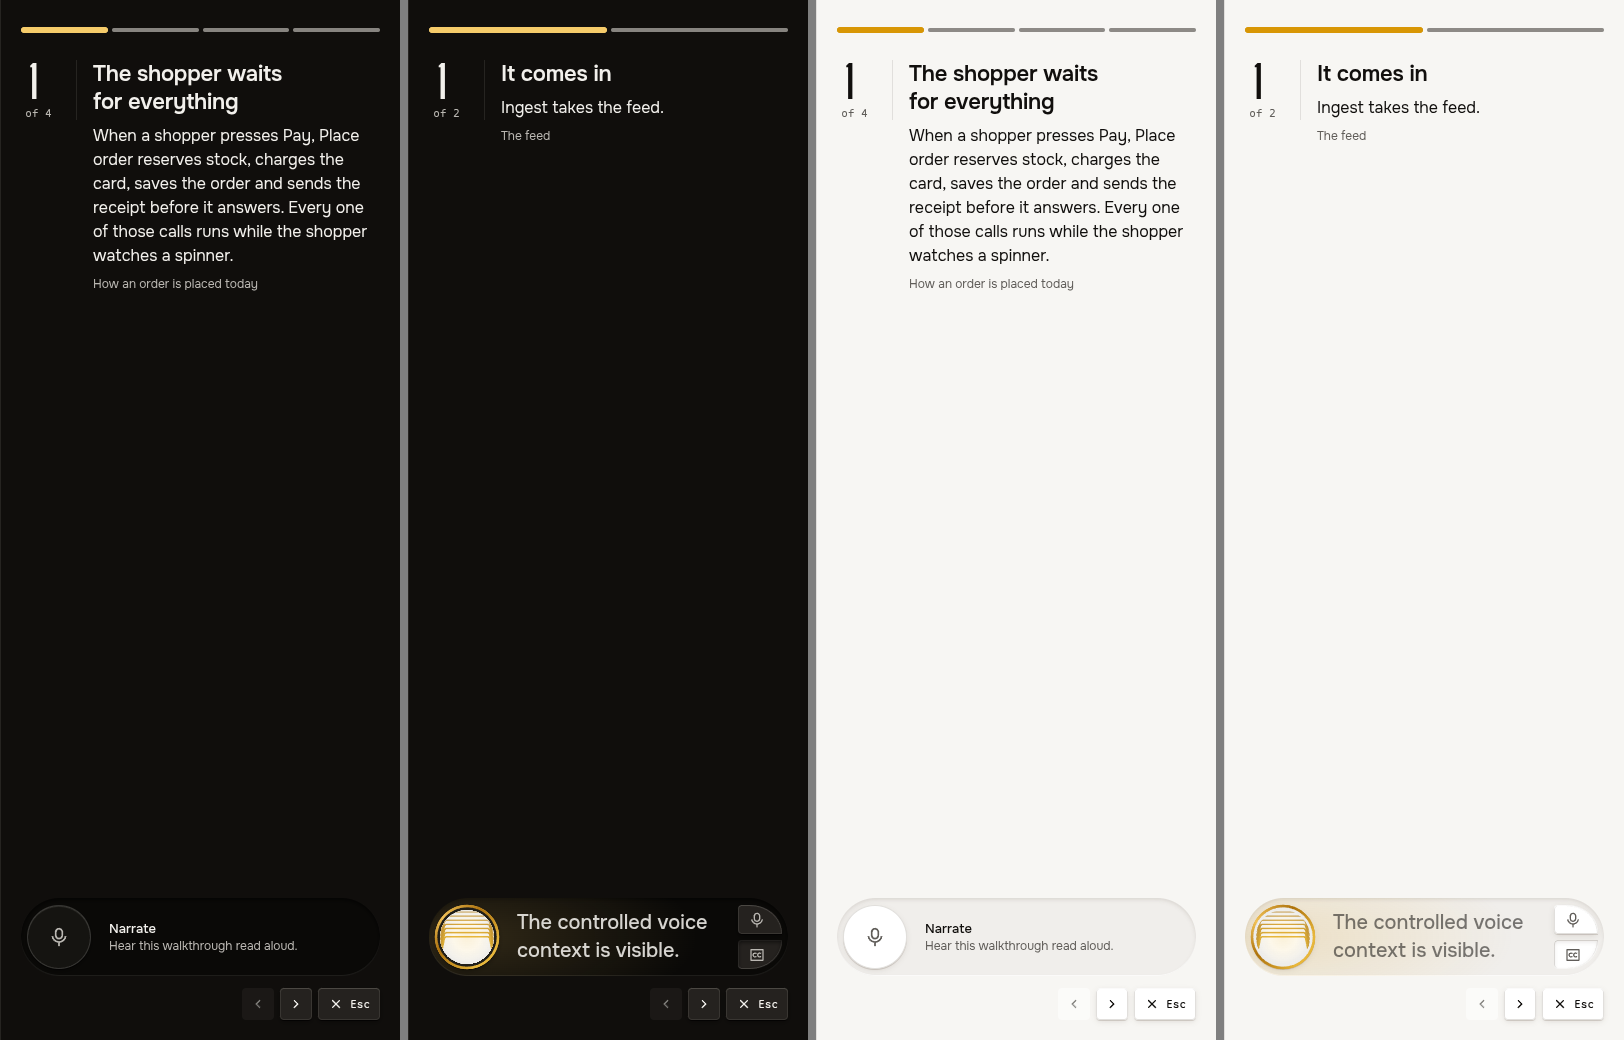
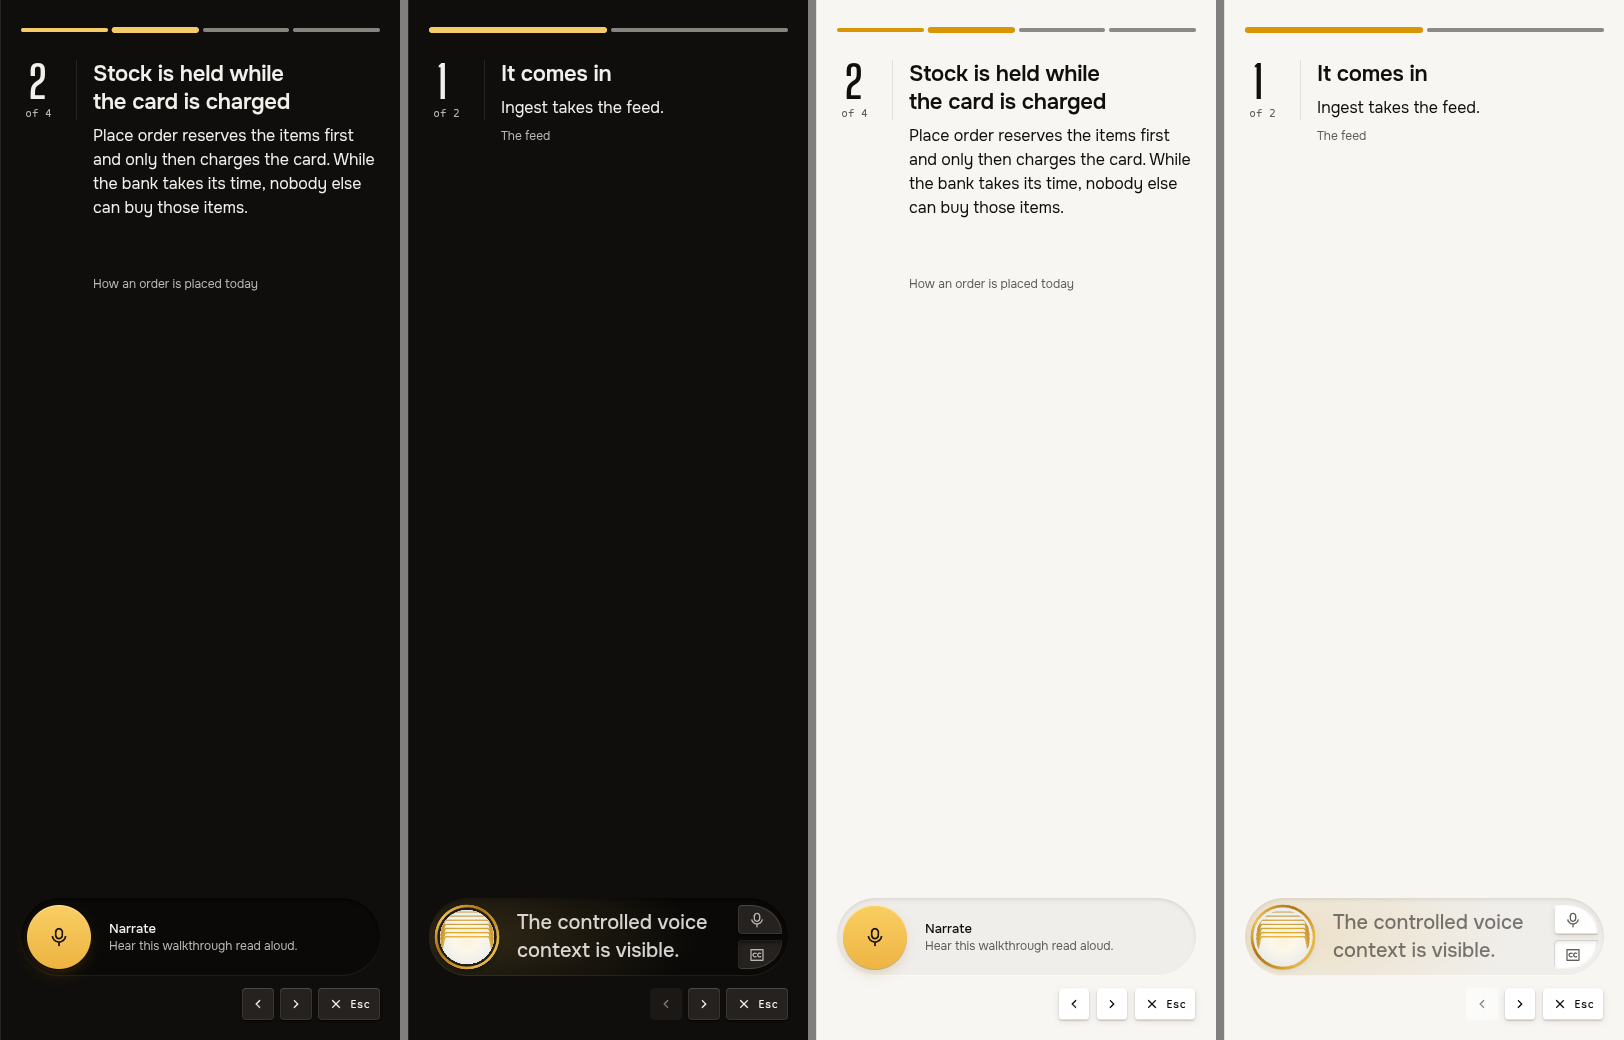
feat(walkthrough): the rail fills with gold up to the step, and Narrate is gold
As on the site's walkthrough player, the segments before the step shown
are gold, so the rail reads as progress. The segments after it keep the
muted tone, which holds the contrast of a mark on the column. The
circle of the Narrate key takes the gold finish of the primary action
and lifts and sinks with the key.

Refs: TASK-590.05

diff --git a/apps/web/src/ui/architecture-drawing/canvas/presentation/components/PresentationRail.tsx b/apps/web/src/ui/architecture-drawing/canvas/presentation/components/PresentationRail.tsx
@@ -1,15 +1,18 @@
-// The rail along the top of a presented walkthrough's box: one segment for each step, and a way to
-// its step in each. It says where the reader is in the walkthrough at a glance, and it is how a step
-// is chosen out of order.
+// The rail along the top of a presented walkthrough's column: one segment for each step, and a way
+// to its step in each. It says where the reader is in the walkthrough at a glance, and it is how a
+// step is chosen out of order.
 //
 // The step shown is marked by one piece of gold that is as wide as a segment and travels along the
 // rail to the new step, with a paler wake that arrives a little after it, so a long jump is
-// followed across the rail and a short one is a step. The segments themselves only name their
-// steps, in a tone that is 3:1 against the box, because they are controls. Only a transform moves;
-// the stylesheet (app.css, `semantic-presentation-rail`) does it.
+// followed across the rail and a short one is a step. The segments before it are gold too, so the
+// rail fills up to the step shown, as the site's walkthrough player does. The segments after it
+// are in a tone that keeps the contrast of a mark against the column, because they are controls.
+// Only a transform moves the gold piece; the stylesheet (app.css, `semantic-presentation-rail`)
+// does it.
 
 import { useCallback, useMemo, type CSSProperties, type JSX } from "react";
 
+import { cn } from "@archboard/ui-kit/components";
 import { KeyTip } from "#ui/architecture-drawing/canvas/presentation/components/PresentationKeys.tsx";
 import type { VariantContent } from "@archboard/model/content";
 
@@ -23,6 +26,8 @@ interface StepSegmentProps {
 	readonly heading: string;
 	/** Whether it is the step shown. */
 	readonly current: boolean;
+	/** Whether the step comes before the one shown, so its segment is filled. */
+	readonly done: boolean;
 	/**
 	 * Show a step.
 	 * @param index The step.
@@ -52,7 +57,14 @@ function StepSegment(props: StepSegmentProps): JSX.Element {
 				onClick={go}
 				className="hit-area group flex h-5 min-w-0 flex-1 items-center outline-none"
 			>
-				<span className="bg-muted-foreground/70 group-hover:bg-muted-foreground group-focus-visible:ring-ring block h-1 w-full rounded-full transition-colors duration-150 group-focus-visible:ring-2 group-focus-visible:ring-offset-2 group-focus-visible:ring-offset-(--card) motion-reduce:transition-none" />
+				<span
+					className={cn(
+						"group-focus-visible:ring-ring block h-1 w-full rounded-full transition-colors duration-150 group-focus-visible:ring-2 group-focus-visible:ring-offset-2 group-focus-visible:ring-offset-(--sidebar) motion-reduce:transition-none",
+						props.done
+							? "bg-primary-mark"
+							: "bg-muted-foreground/70 group-hover:bg-muted-foreground",
+					)}
+				/>
 			</button>
 		</KeyTip>
 	);
@@ -95,6 +107,7 @@ function PresentationRail(props: PresentationRailProps): JSX.Element {
 					index={at}
 					heading={beat.heading}
 					current={at === props.index}
+					done={at < props.index}
 					onGo={props.onGo}
 				/>
 			))}

diff --git a/apps/web/src/ui/architecture-drawing/canvas/presentation/components/PresentationFoot.tsx b/apps/web/src/ui/architecture-drawing/canvas/presentation/components/PresentationFoot.tsx
@@ -28,12 +28,17 @@ const FOOT_STYLE: CSSProperties = {
 /** What the key says while a narration can start. */
 const NARRATE_HINT = "Hear this walkthrough read aloud.";
 
-/** The circle where the orb will be lit: the plate the orb stands on, with the microphone on it. */
-const SEAT = cn(
-	"border-border bg-card text-muted-foreground shadow-raised m-1.5 grid size-16 shrink-0 place-items-center",
-	"dark:border-input dark:bg-input/30 rounded-full border transition-[border-color,color,box-shadow]",
-	"group-hover/narrate:border-primary-mark group-hover/narrate:text-primary-mark",
-	"group-active/narrate:shadow-pressed",
+/**
+ * The circle where the orb will be lit, with the microphone on it. It is the gold of the primary
+ * action, as the site's Narrate key is, and it lifts and sinks with the key that holds it.
+ */
+const SEAT =
+	"primary-finish pointer-events-none m-1.5 grid size-16 shrink-0 place-items-center rounded-full";
+
+/** How the circle answers the pointer on a key that can narrate. */
+const LIFT = cn(
+	"group-hover/narrate:shadow-primary-hover group-hover/narrate:-translate-y-px",
+	"group-active/narrate:shadow-primary-pressed group-active/narrate:translate-y-px",
 );
 
 /** Inputs for the key that has the walkthrough narrated. */
@@ -74,7 +79,7 @@ function NarrateKey(props: NarrateKeyProps): JSX.Element {
 				dimmed ? "cursor-default opacity-60" : "cursor-pointer",
 			)}
 		>
-			<span aria-hidden="true" className={cn(SEAT, dimmed && "group-hover/narrate:border-border")}>
+			<span aria-hidden="true" className={cn(SEAT, !dimmed && LIFT)}>
 				<RiMicLine className="size-5" />
 			</span>
 			<span className="flex min-w-0 flex-col">

diff --git a/DESIGN.md b/DESIGN.md
@@ -685,10 +685,12 @@ has 20px of padding and 20px between its parts. The picture is as wide as the co
 so the camera fits each step to all of the picture and keeps nothing clear.
 
 The rail runs along the top of the column, across its full width. It has one segment for each
-step. Each segment is a button, and a tooltip names its step. The segments are 4px high, in
-Muted Ink at 70%, which is APCA Lc 56 against the column on chalk and Lc 37 on graphite, over
-the floor of Lc 30 for a mark, because they are controls. One piece of Gold Mark marks the step
-shown. It is 6px high and as wide as a segment, with a paler wake of the same gold behind it.
+step. Each segment is a button, and a tooltip names its step. The segments are 4px high. The
+segments before the step shown are Gold Mark, so the rail fills up to the step shown, as on the
+site's player. The segments after it are Muted Ink at 70%, which is APCA Lc 56 against the
+column on chalk and Lc 37 on graphite, over the floor of Lc 30 for a mark, because they are
+controls. One piece of Gold Mark marks the step shown. It is 6px high and as wide as a segment,
+with a paler wake of the same gold behind it.
 
 Under the rail stands the step's number, set in the display face at 44px over a mono "of N",
 with a rule on its right, as on the sheet number of a drawing. Beside it are the heading of the
@@ -705,7 +707,8 @@ go is dimmed, as previous is on the first step. It stays a key, so that focus is
 nothing. A recording draws no keys, because nobody can press anything in the video.
 
 While voice is off, the pill holds the key that narrates the walkthrough. The key is a circle
-where the orb will be lit, with a microphone in it. Then come "Narrate" and a line of muted
+in the gold finish of the primary action, where the orb will be lit, with a microphone in it. It
+lifts 1px when hovered and sinks 1px when pressed, as the gold button does. Then come "Narrate" and a line of muted
 ink that says what it does. While a narration cannot start, the key is dimmed and never taken
 out, and the line says why. Pressing the key hands keyboard focus to the pill, because the key
 gives way.

diff --git a/docs/design/operator-canvas-shell.md b/docs/design/operator-canvas-shell.md
@@ -317,14 +317,14 @@ header is held and says so, and it does not show or hide the sidebar.
 
 A presented walkthrough (TASK-250, TASK-392, TASK-590.05) is the picture and a column beside it,
 with the sidebar stepped aside. The column stands where the right panel stands, 400px wide at
-most, as the site's walkthrough player sets it. A rail of steps runs along its top, with one piece
-of gold that travels to the step shown. Under the rail is the step's number, set as a drawing's
+most, as the site's walkthrough player sets it. A rail of steps runs along its top. It fills with
+gold up to the step shown, and one piece of gold travels to that step. Under the rail is the step's number, set as a drawing's
 sheet number is. Beside the number are the step's heading in the `presentation` type role, its
 words in the `reading` role, and the name of the walkthrough under those.
 
 The pill for the voice stands at the foot of the column, as wide as the column. The keys,
 previous, next and leave, stand under it on the right. While voice is off, the pill holds the key
-that narrates the walkthrough. While voice is live, it holds the voice box, with its orb, its
+that narrates the walkthrough, a gold circle with a microphone in it. While voice is live, it holds the voice box, with its orb, its
 words, mute and the subtitles control. The foot keeps its place whatever the voice is doing and
 whichever step is shown, so nothing in the column moves with either. A fullscreen presentation
 has no dock. So the voice box carries the voice there, whatever the person wants of subtitles,
